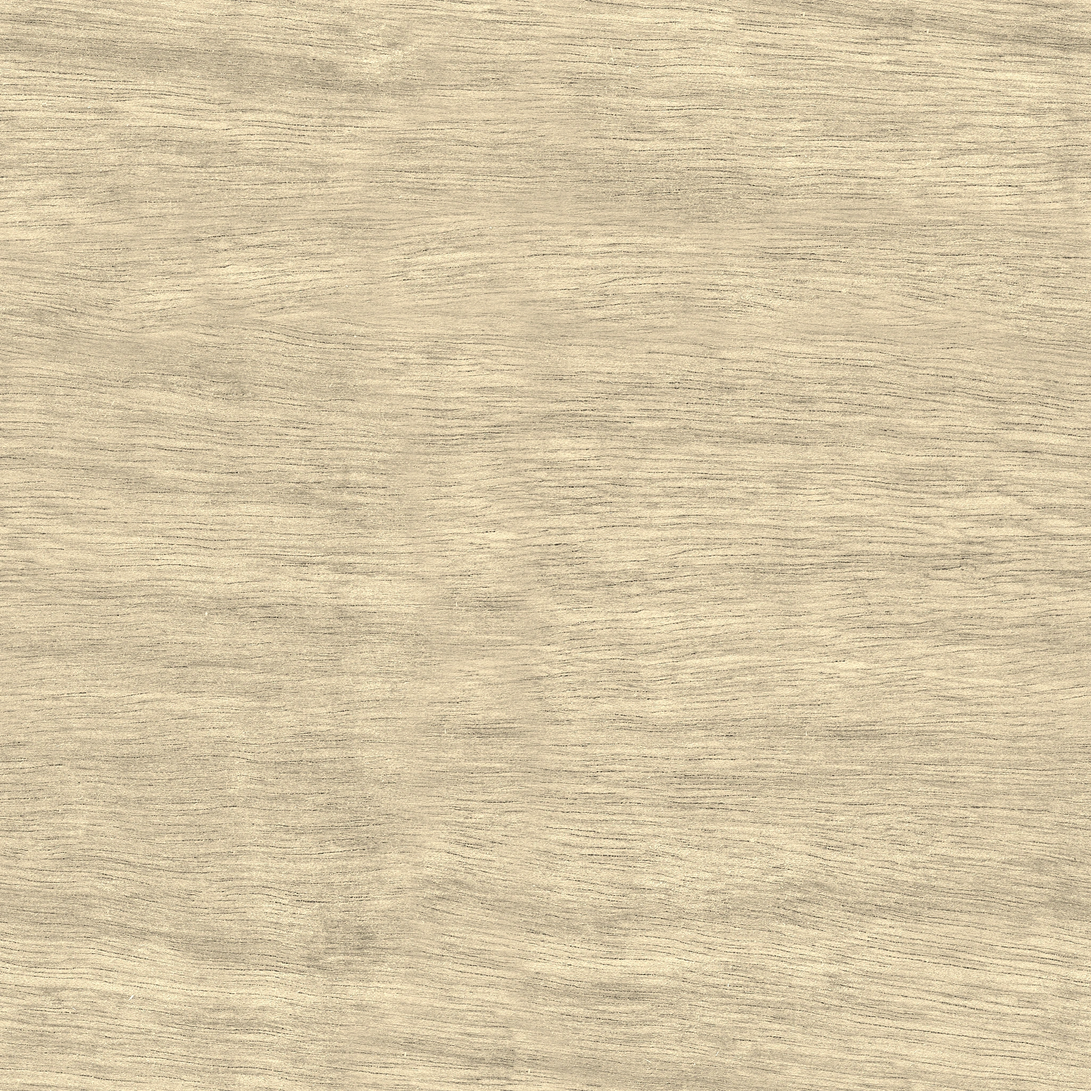
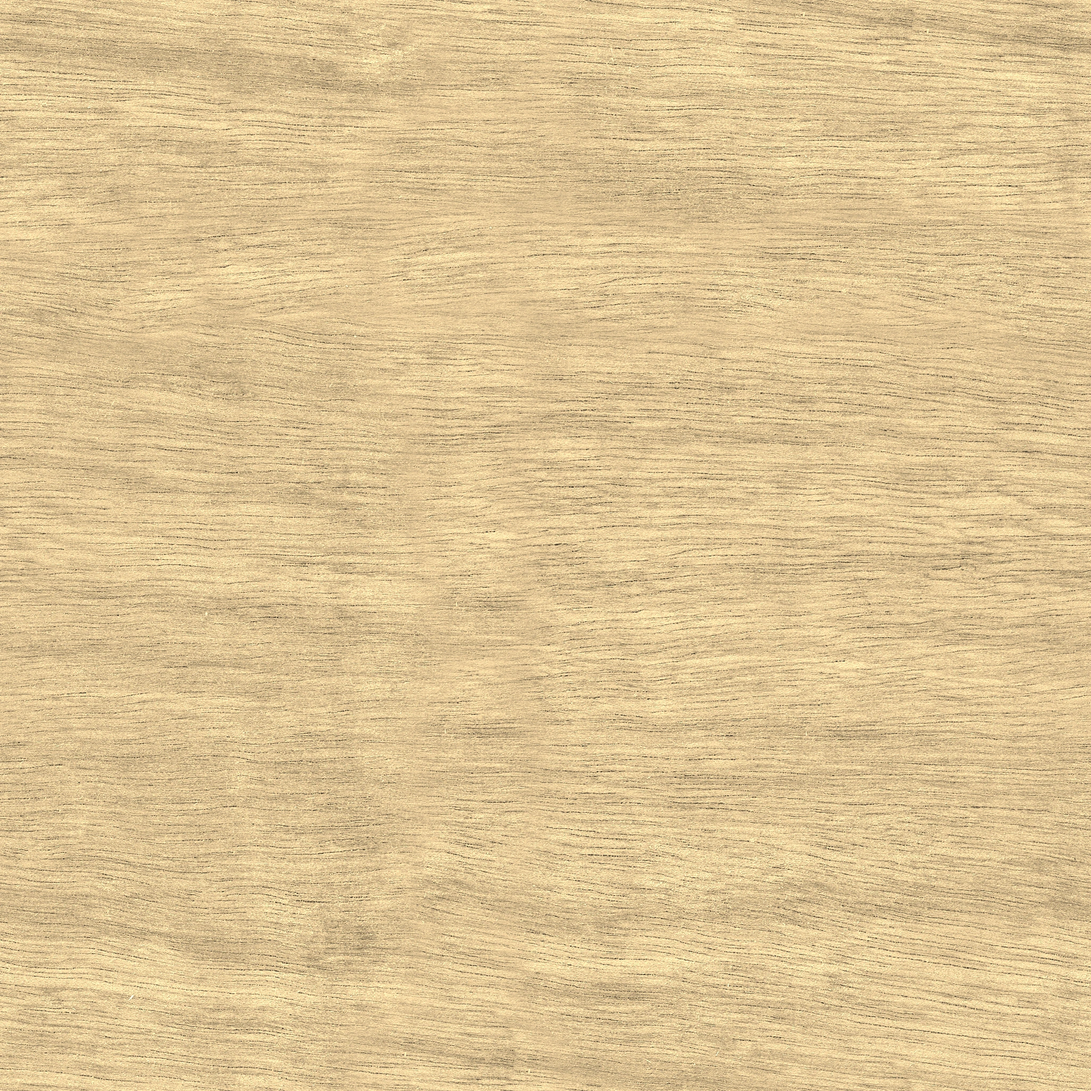
fix: warm light plywood toward a golden pine tone

diff --git a/src/material-surfaces.ts b/src/material-surfaces.ts
@@ -4,7 +4,7 @@ import walnutThumbnail from './assets/materials/walnut-thumbnail.jpg';
 /** Picker thumbnails are reduced from the same photographs as the detailed 3D maps. */
 export const materialSurfaces = {
   // Keep historical IDs for saved consumer values; pine now previews a light plywood face.
-  pine: { thumbnail: pineThumbnail, tileMm: 180, offset: [.15, .2], fallback: '#d8c7a6' },
+  pine: { thumbnail: pineThumbnail, tileMm: 180, offset: [.15, .2], fallback: '#e0c494' },
   walnut: { thumbnail: walnutThumbnail, tileMm: 180, offset: [.2, .3], fallback: '#775741' },
 } as const;
 export type WoodKind = keyof typeof materialSurfaces;

diff --git a/ASSET_LICENSES.md b/ASSET_LICENSES.md
@@ -15,7 +15,7 @@ The original assets are available free of charge from Poly Haven. The AtommUI
 library's MIT license does not replace the CC0 status of those images.
 
 Processing: 4K colour photographs are downsampled to 2048px with high-quality
-WebP encoding and tone-adjusted for light plywood and walnut veneer. Original
+WebP encoding and tone-adjusted for golden light plywood and walnut veneer. Original
 2K normal and roughness maps are resized to 1024px and JPEG-encoded.
 Roughness is remapped to a matte finish. These are artistic preview finishes,
 not calibrated representations of a purchased sheet or fabrication presets.
